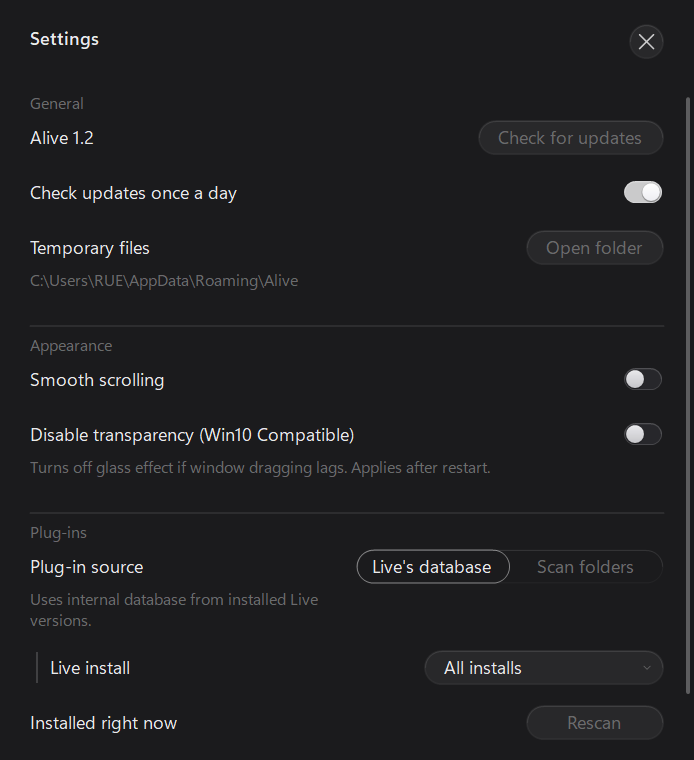
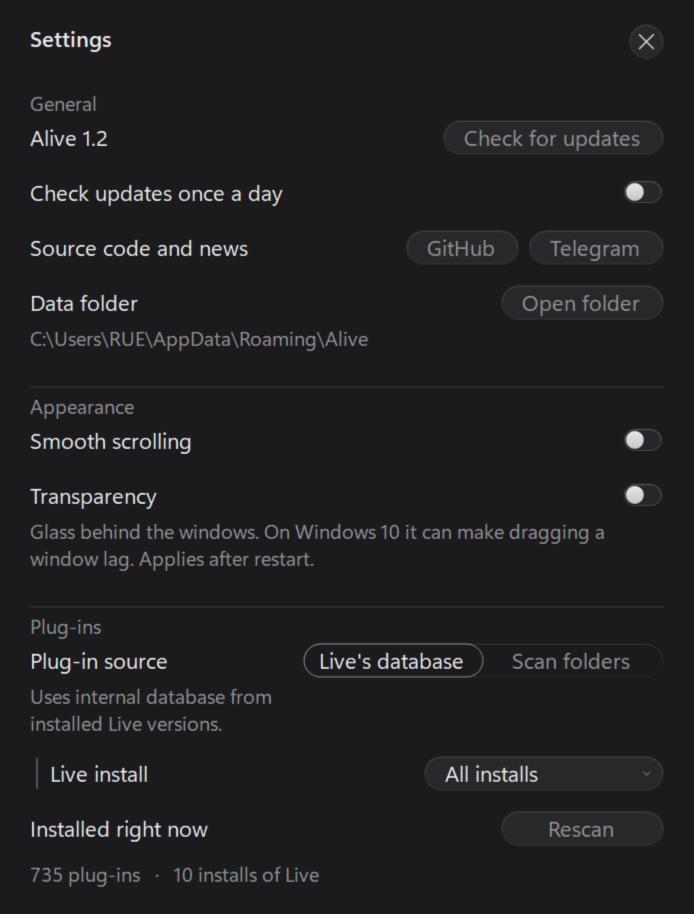
Настройки по умолчанию выключены, ссылки в настройках, кнопка закрытия
Свежая установка стартует без проверки обновлений, без плавной прокрутки и без
прозрачности - каждое включается одним переключателем. У кого settings.cfg уже
есть, тот сохраняет свои значения: меняются только умолчания. Прозрачность в
настройках теперь сказана прямо ("Transparency", а не "Disable
transparency") - выключенная, как и два других переключателя.

В настройках строка "Source code and news" с кнопками GitHub
(github.com/rueblose/alive) и Telegram (t.me/RueBlose). "Temporary files"
переименованы в "Data folder": в этой папке лежат теги, заметки и история
работы, которые больше нигде не хранятся, и называть её временной значит
подсказывать её удалить. Предел высоты окна поднят до 915 - замер показал,
что при шрифте 125% список не помещался и раньше, а теперь окно показывает
его целиком, без прокрутки.

Кнопка закрытия: красная заливка при наведении рисовалась вместо подложки, а
не поверх неё. При уходе курсора кнопка затухала вся вместе с красным, а серая
подложка появлялась в самом конце анимации. Теперь подложка есть всегда, а
красный идёт по квадрату наведения: появляется почти так же быстро, но гаснет
за ~140 мс вместо ~370. Одна правка в IconButton - на главном окне, в
диалогах и в окне Stat.

README (оба языка): раздел "Data folder" - что хранит каждый файл в
%APPDATA%\Alive и что будет, если его удалить (activity.cache и notes.cfg не
восстановить); про ALIVE_HOME; переписан абзац об обновлениях - теперь они
[…]

diff --git a/src/SettingsDialog.cs b/src/SettingsDialog.cs
@@ -38,6 +38,8 @@ namespace AbletonManager
         readonly GlassButton _rescan = new GlassButton();
 
         readonly GlassButton _openCache = new GlassButton();
+        readonly GlassButton _github = new GlassButton();
+        readonly GlassButton _telegram = new GlassButton();
         readonly GlassButton _update = new GlassButton();
         readonly PillToggle _autoUpdate = new PillToggle();
         readonly GlassButton _restart = new GlassButton();
@@ -84,7 +86,9 @@ namespace AbletonManager
             };
             State(_smooth);
 
-            _compat.Checked = _s.DisableGlass;
+            // Said the positive way round: the switch is off when the glass is — as the other
+            // two switches of a fresh install are.
+            _compat.Checked = !_s.DisableGlass;
             _compat.CheckedChanged += delegate { ToggleCompat(); };
             State(_compat);
 
@@ -165,6 +169,9 @@ namespace AbletonManager
             };
             _body.Controls.Add(_openCache);
 
+            Link(_github, "GitHub", "https://github.com/rueblose/alive");
+            Link(_telegram, "Telegram", "https://t.me/RueBlose");
+
             // One width for every button in the right column: three different widths gave three
             // different left edges in one column, and the right column fell apart.
             GlassButton[] rightButtons = new GlassButton[] { _openCache, _rescan, _restart };
@@ -174,6 +181,19 @@ namespace AbletonManager
 
             DescribeInventoryAsync();
             RefreshInstallsAsync();
+        }
+
+        /// <summary>A button that opens a page in the browser.</summary>
+        void Link(GlassButton b, string text, string url)
+        {
+            b.Text = text;
+            b.FitToText(16);
+            b.Click += delegate
+            {
+                try { Process.Start(new ProcessStartInfo(url) { UseShellExecute = true }); }
+                catch (Exception ex) { Diag.Line("settings: open " + url + ": " + ex.Message); }
+            };
+            _body.Controls.Add(b);
         }
 
         void Toggle(PillToggle t, bool on, EventHandler changed)
@@ -214,7 +234,7 @@ namespace AbletonManager
         /// </summary>
         void ToggleCompat()
         {
-            _s.DisableGlass = _compat.Checked;
+            _s.DisableGlass = !_compat.Checked;
             _s.Save();
 
             // The offer to restart lives as a line in this same window: an accidentally clicked
@@ -451,8 +471,16 @@ namespace AbletonManager
 
             Line(x, ref y, w, h, _autoUpdate, "Check updates once a day", "");
 
+            // Two buttons in one row: the caption says what both are about, each button where.
+            Line(x, ref y, w, h, _telegram, "Source code and news", "");
+            Row links = _rows[_rows.Count - 1];
+            _github.SetBounds(_telegram.Left - Sc(10) - _github.Width, _telegram.Top, _github.Width, _telegram.Height);
+            links.Rect.Width = Math.Max(0, _github.Left - x - Sc(16));
+
+            // Not "temporary files": the tags, the notes and the history of the work live here
+            // too, and are nowhere else (see README, "Data folder").
             Line(x, ref y, w, h, _openCache,
-                 "Temporary files",
+                 "Data folder",
                  Settings.Dir);
 
             Separator(x, ref y, w);
@@ -461,8 +489,8 @@ namespace AbletonManager
                  "Smooth scrolling",
                  "");
             Line(x, ref y, w, h, _compat,
-                 "Disable transparency (Win10 Compatible)",
-                 "Turns off glass effect if window dragging lags. Applies after restart.");
+                 "Transparency",
+                 "Glass behind the windows. On Windows 10 it can make dragging a window lag. Applies after restart.");
 
             // A button with no caption: the line above has already said a restart is needed,
             // and repeating it as a heading with an explanation makes three statements of one
@@ -531,7 +559,7 @@ namespace AbletonManager
         /// threefold, and a frame jumping about from that reads as a different window rather
         /// than as different content. Whatever does not fit scrolls inside the panel.
         /// </summary>
-        int WindowH { get { return Sc(760); } }
+        int WindowH { get { return Sc(915); } }      // measured: 914 at 125% type on a 96-dpi layout, with the row of links
 
         /// <summary>Fit the window height to the content, but no taller than WindowH.</summary>
         void FitHeight(int need)

diff --git a/src/Settings.cs b/src/Settings.cs
@@ -60,15 +60,18 @@ namespace AbletonManager
         /// keeps moving for a couple of seconds after the mouse has stopped. Windows 11 runs a
         /// different branch (the system backdrop) and does not have this — which is why we do
         /// not switch it off ourselves but hand over a toggle.
+        ///
+        /// On by default — a fresh install starts flat, and the glass is the person's to turn
+        /// on. A settings.cfg that already says noglass=0 keeps its glass.
         /// </summary>
-        public bool DisableGlass;
+        public bool DisableGlass = true;
 
 
         /// <summary>
         /// Whether smooth vertical scrolling is on (settling by timer). With false, scrolling
-        /// in every list and panel is instant.
+        /// in every list and panel is instant. Off by default, like the glass.
         /// </summary>
-        public bool SmoothScroll = true;
+        public bool SmoothScroll;
 
         /// <summary>
         /// Whether to collapse the sets of one folder into a single row. On by default: a
@@ -135,9 +138,10 @@ namespace AbletonManager
         /// <summary>
         /// Whether the program may ask GitHub about a newer release on its own. This is the
         /// only network request it ever makes — see UpdateCheck — and the only setting here
-        /// that decides whether anything leaves the machine at all.
+        /// that decides whether anything leaves the machine at all. Off by default: a fresh
+        /// install touches the network only when the person asks it to.
         /// </summary>
-        public bool CheckUpdates = true;
+        public bool CheckUpdates;
 
         /// <summary>The day it last asked, yyyy-MM-dd. Once a day is plenty for a program
         /// that gets a release every few weeks.</summary>

diff --git a/src/Controls.cs b/src/Controls.cs
@@ -820,17 +820,23 @@ namespace AbletonManager
             Theme.Smooth(g);
 
             RectangleF r = new RectangleF(0, 0, Width, Height);
-            if (Danger && HoverFactor > 0.001f)
-            {
-                Color bg = Color.FromArgb((int)Math.Round(HoverFactor * 255), Theme.Red);
-                Theme.FillRound(g, r, Height / 2f, bg);
-            }
-            else if (!Quiet)
+            // The backing is always there, the close button's included: its red lies on top.
+            // It used to take the backing's place, and on the way out the button faded to
+            // nothing together with the red — then the grey pill popped back in at the very end.
+            if (!Quiet)
             {
                 int baseAlpha = Theme.GlassSurfaceAlpha;
                 int targetAlpha = PressFactor > 0.01f ? Theme.GlassSurfacePressedAlpha : Theme.GlassSurfaceHotAlpha;
                 int alpha = (int)Math.Round(Theme.Lerp(baseAlpha, targetAlpha, Math.Max(HoverFactor, PressFactor)));
                 Theme.PaintGlassSurface(this, g, r, Height / 2f, alpha);
+            }
+            if (Danger && HoverFactor > 0.001f)
+            {
+                // Squared: the red comes in nearly as fast (83% in four frames), but its tail is
+                // gone in about 140 ms instead of the hover's lazy 370 — a saturated red makes
+                // every frame of a tail visible that a grey backing hides.
+                float k = HoverFactor * HoverFactor;
+                Theme.FillRound(g, r, Height / 2f, Color.FromArgb((int)Math.Round(k * 255), Theme.Red));
             }
 
             float box = Width * IconScale;

diff --git a/README.md b/README.md
@@ -154,19 +154,22 @@ tempo against track count against the year, or anything else the catalog knows.
 
 <img src="docs/img/settings.png" alt="Settings" width="560">
 
-`Ctrl ,` or the gear in the header. Smooth scrolling, a transparency switch
-(on Windows 10 the acrylic backdrop is recomputed on every window move, so the window lags behind
-the cursor), and where the plugin list comes from — Live's own database, or your VST2/VST3 folders.
+`Ctrl ,` or the gear in the header. Smooth scrolling, transparency (on Windows 10 the acrylic
+backdrop is recomputed on every window move, so the window lags behind the cursor), and where the
+plugin list comes from — Live's own database, or your VST2/VST3 folders. A fresh install starts with
+the update check, smooth scrolling and transparency all off; each is one switch away. The same
+window links to this repository and to the developer's Telegram channel,
+[t.me/RueBlose](https://t.me/RueBlose), and opens the [data folder](#data-folder).
 
-**Updates.** Once a day Alive asks GitHub whether a newer release exists, and says so with a dot
-on the gear. No popup, no window in your way: the dot waits until you look. Only a release that
-moves the major or the minor number lights it — a fix waits to be asked about. **Check for
-updates** in the same row asks on the spot and reports anything, fixes included.
+**Updates.** **Check for updates** asks GitHub on the spot whether a newer release exists and
+reports anything, fixes included. Switch on **Check updates once a day** and Alive asks by itself
+and says so with a dot on the gear. No popup, no window in your way: the dot waits until you look.
+Only a release that moves the major or the minor number lights it — a fix waits to be asked about.
 
-That request is the only one the program ever makes. Nothing about you, your library or your
-machine goes with it: it is a plain GET for a public page, and GitHub learns from it what any web
-server learns from anybody who opens one. The switch beside it turns even that off, and then Alive
-touches the network never.
+That request is the only one the program ever makes, and only when you ask for it: out of the box
+Alive never touches the network. Nothing about you, your library or your machine goes with it: it
+is a plain GET for a public page, and GitHub learns from it what any web server learns from anybody
+who opens one.
 
 ---
 
@@ -221,6 +224,33 @@ Requires **.NET Framework 4.6+**, which ships with Windows 10 and 11.
 5. **Something else is wrong** — Alive writes a log of its last run to `%APPDATA%\Alive\alive.log`:
    Windows version, .NET version, where Live was found and what exactly failed. That file is the
    first thing to send.
+
+---
+
+## Data folder
+
+Everything Alive remembers lives in `%APPDATA%\Alive` (**Settings → Data folder → Open folder**).
+Nothing is written anywhere else — no installer, no registry entries — so deleting the folder resets
+the program completely. Mind the two files marked below before you do: they hold what cannot be
+rebuilt.
+
+| File | What it holds | If deleted |
+|---|---|---|
+| `settings.cfg` | Settings: project and sample folders, table columns, window size and place, switches | Back to defaults; the folders are asked for again |
+| `index.cache` | The parsed sets — tempo, key, plugins, files — so the catalog opens without reading every `.als` again | Rebuilt by the next scan |
+| `samples.cache` | The sample library: folders, files, dates, which AIFFs only Live can play, content hashes for Duplicates | Rebuilt by the next walk — a minute or two on a large library |
+| `activity.cache` | The year of work on Home: the days and hours projects were saved | **Lost for good** — Live keeps only the last ten backups of a set; the rest of the history is only here |
+| `notes.cfg` | Your tags and notes | **Lost for good** |
+| `home.cfg` | Projects pinned with the star | Pins are gone |
+| `previews.cfg` | Which render is a project's main preview | Back to the automatic pick |
+| `nebula.cfg` | What Stat's six channels show | Back to defaults |
+| `thumbs\` | Arrangement pictures for the Home tiles, 400 at most | Drawn again when needed |
+| `alive.log` | What happened during the last run; rewritten at every start | Nothing |
+| `probes.txt` | Rescue probe copies lying in project folders right now, so they are cleaned up after a crash | Leftover probes stay where they are (`*.alive-probe.als`) |
+
+`*.tmp` files appear for a moment while a cache is being saved. To keep all of this somewhere else —
+a portable setup, or a second catalog beside the first — set the `ALIVE_HOME` environment variable
+to a folder before starting Alive.
 
 ---
 
